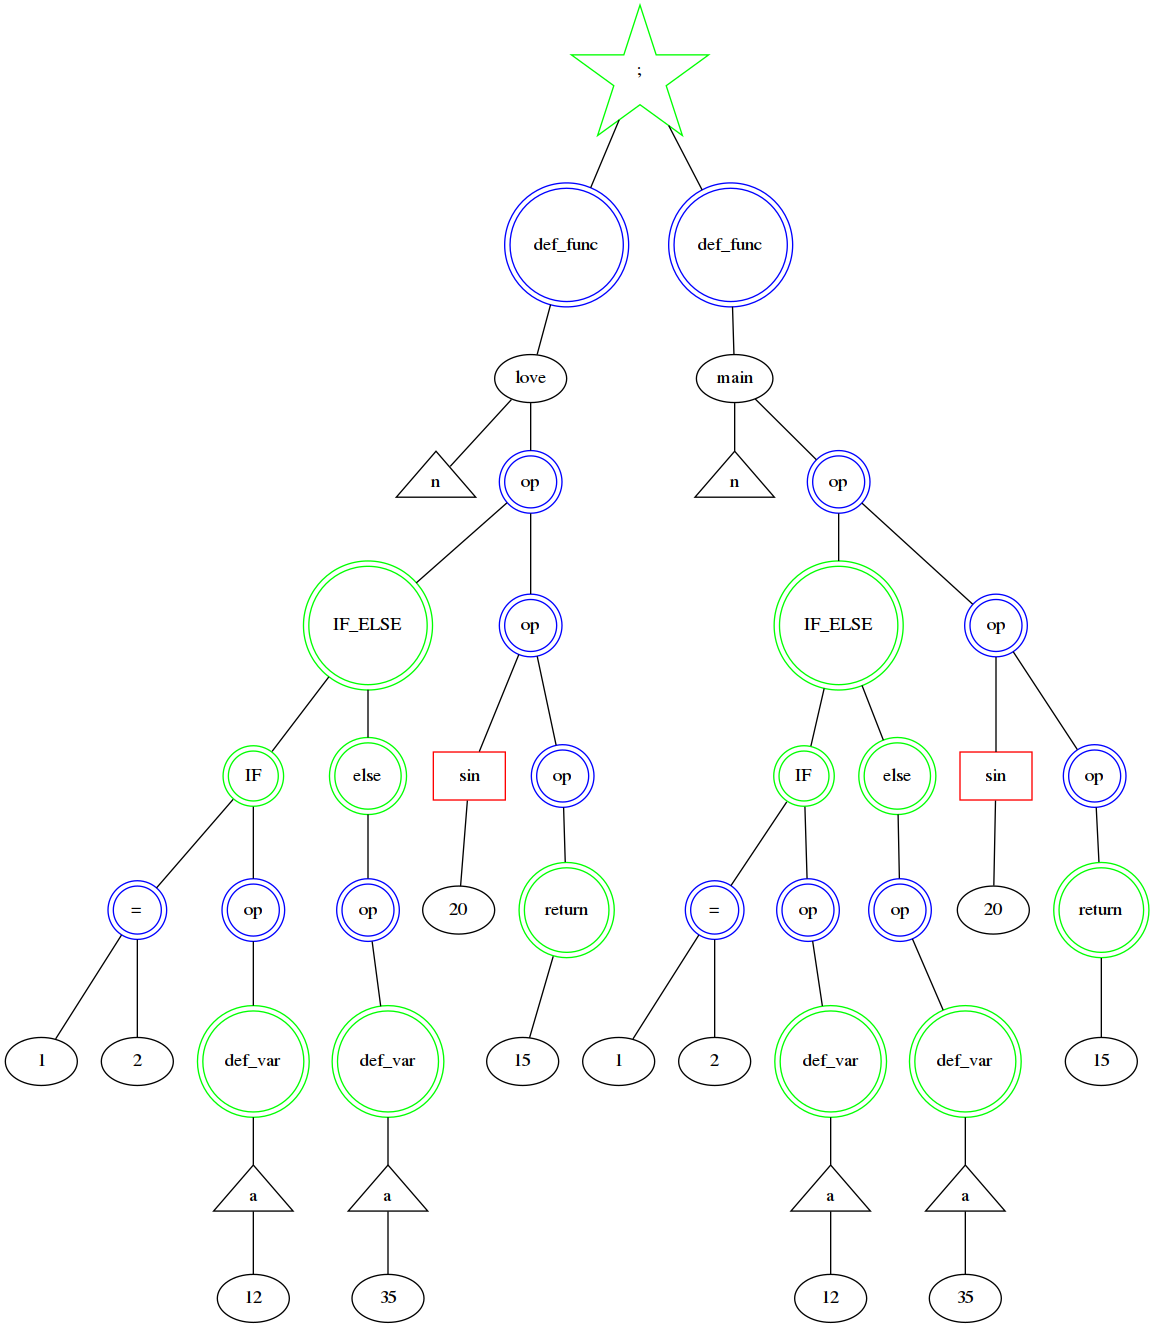
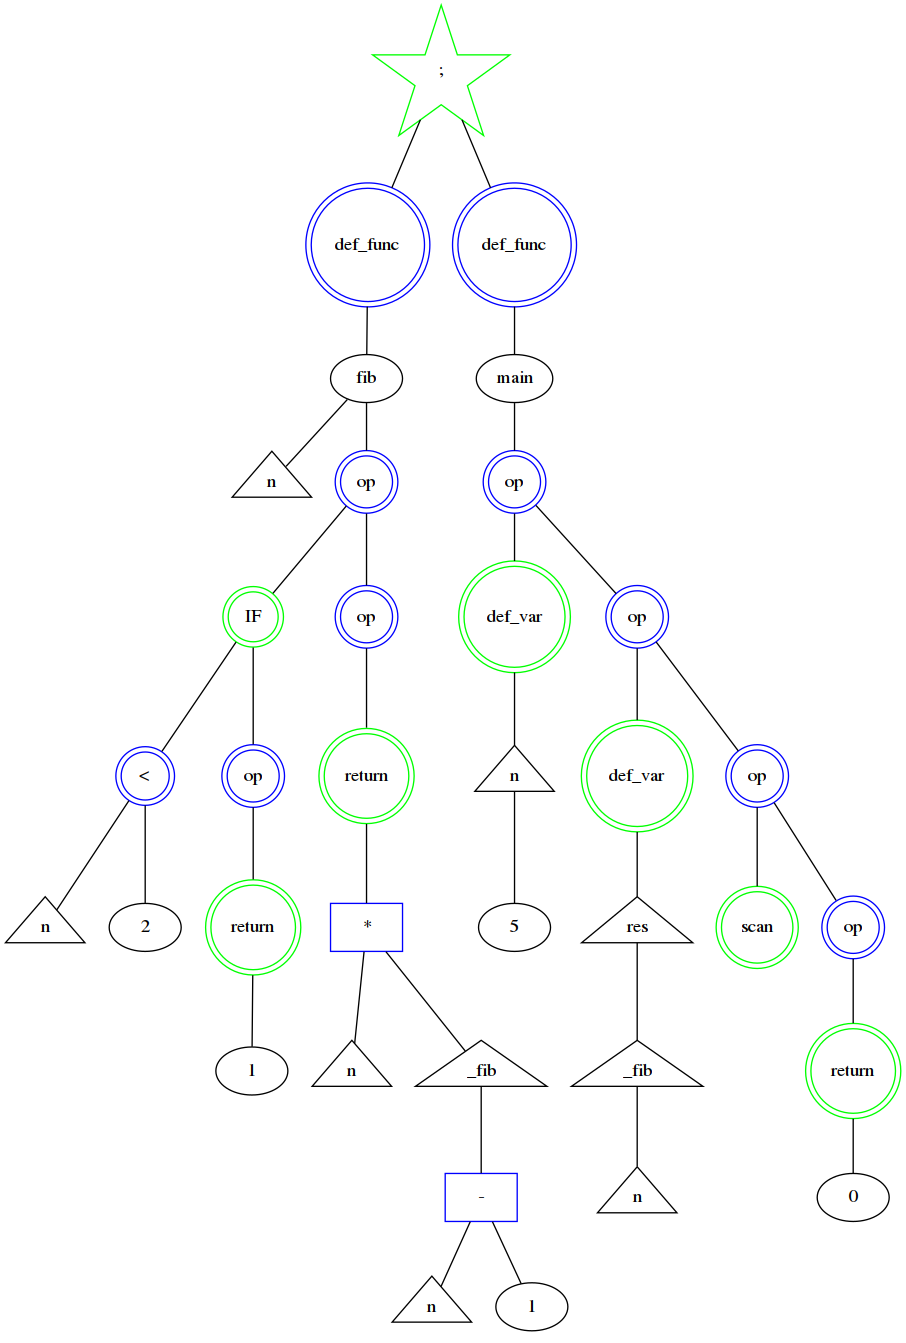
Added all syntaxis and fixed dump

diff --git a/dumps/dumps.cpp b/dumps/dumps.cpp
@@ -42,7 +42,7 @@ void gravizDeepWriting(std::ofstream& myfile, Node* tree, int *index) {
                 myfile << "_" << tree->index << "V" << " -- ";
                 writeChild(myfile, tree->rightChild);
             }
-            return;
+            break;
         case CLASS_MATH_FUNC:
             myfile << "_" << tree->index << "MF" << tree->data->value << "[shape=box, color=red,label=\"" << getStringMathOpAndFunc(tree->data->value) << "\"]\n";
             myfile << "_" << tree->index << "MF" << tree->data->value << " -- ";
@@ -121,6 +121,17 @@ void gravizDeepWriting(std::ofstream& myfile, Node* tree, int *index) {
                 writeChild(myfile, tree->rightChild);
             }
             break;
+        case CLASS_CALL_FUNC:
+            myfile << "_" << tree->index << "CF" << " [shape=triangle,label=\"" << tree->data->name << "\"]\n";
+            if(tree->leftChild) {
+                myfile << "_" << tree->index << "CF" << " -- ";
+                writeChild(myfile, tree->leftChild);
+            }
+            if(tree->rightChild) {
+                myfile << "_" << tree->index << "CF" << " -- ";
+                writeChild(myfile, tree->rightChild);
+            }
+            break;
         default:
             printf("Error in dump - undefined op class!(1)%d\n", tree->data->type);
             exit(EXIT_FAILURE);
@@ -170,6 +181,10 @@ void writeChild(std::ofstream &myfile, Node *tree) {
             break;
         case CLASS_BOOL_SIGN:
             myfile << "_" << tree->index << "BOP" << ";\n";
+            break;
+        case CLASS_CALL_FUNC:
+            myfile << "_" << tree->index << "CF" << ";\n";
+            myfile << "_" << tree->index << "CF" << " [shape=triangle,label=\"" << tree->data->name << "\"]\n";
             break;
         default:
             myfile << "_" << tree->index << "_" << tree->data->type << ";\n";

diff --git a/frontend/frontend.cpp b/frontend/frontend.cpp
@@ -4,6 +4,8 @@
 
 int countFuncDef = 0;
 
+Node *getF(std::vector<Token *>::iterator *iter);
+
 Node* buildTree(std::vector<Token*>* tokens) {
     auto iter = tokens->begin();
     Node* tree = getG(&iter);
@@ -314,7 +316,7 @@ Node* getE(std::vector<Token*>::iterator* iter) {
     }
 }
 
-Node *createDefineVarNode(Token *varToken, Node *rval) {
+Node* createDefineVarNode(Token *varToken, Node *rval) {
     //Node for def_var
     Data* data = new Data();
     data->type = CLASS_SYSTEM_OP;
@@ -412,10 +414,33 @@ Node* getP(std::vector<Token*>::iterator* iter) {
         }
     } else if(dynamic_cast<Num*>(**iter) != nullptr) {
         return getN(iter);
-    } else {
+    } else if(dynamic_cast<CallFunc*>(**iter) != nullptr) {
+        return getF(iter);
+    }else {
         return getId(iter);
     }
     return nullptr;
+}
+
+Node* getF(std::vector<Token*>::iterator* iter) {
+    Node* nodeCallF = new Node();
+    nodeCallF->index = (**iter)->getNumber();
+    Data* callData = new Data();
+    callData->type = CLASS_CALL_FUNC;
+    callData->name = dynamic_cast<CallFunc*>(**iter)->getCh();
+    nodeCallF->data = callData;
+    (*iter)++;//miss call name
+    if(!requirePair(iter)) {
+        printf("callExpr - requires open \"(\" \n");
+        return nullptr;
+    }
+    Node* nodeCallBody = getE(iter);
+    if(!requirePair(iter)) {
+        printf("callExpr - requires close \")\" \n");
+        return nullptr;
+    }
+    nodeCallF->leftChild = nodeCallBody;
+    return nodeCallF;
 }
 
 Node* getId(std::vector<Token*>::iterator* iter) {

diff --git a/frontend/lexer.cpp b/frontend/lexer.cpp
@@ -69,7 +69,14 @@ std::vector<Token*> doLexer(char* expr) {
     while( token != nullptr ) {
         printf( " %s\n", token );
         for (; token != nullptr && ((strncmp(token,"",1) != 0) && (strncmp(token,"\n",1) != 0)); ) {
-            if (strncmp(token, "(", 1) == 0) {
+            if (strncmp(token, "_", 1) == 0) {
+                auto elem = new CallFunc(token);
+                elem->setNumber(countOP);
+                tokens.push_back(elem);
+                countOP++;
+                if (strlen(token) > 1) token += strlen(token);
+                else break;
+            } else if (strncmp(token, "(", 1) == 0) {
                 auto elem = new Pair(OPEN);
                 elem->setNumber(countOP);
                 tokens.push_back(elem);
@@ -241,6 +248,8 @@ std::vector<Token*> doLexer(char* expr) {
             }
         } else if (dynamic_cast<Var*>(*it) != nullptr) {
             std::cout << "Var(" << dynamic_cast<Var*>(*it)->getCh() << ")\n";
+        } else if (dynamic_cast<CallFunc*>(*it) != nullptr) {
+            std::cout << "CallFunc(" << dynamic_cast<CallFunc*>(*it)->getCh() << ")\n";
         } else if (dynamic_cast<MathFunc*>(*it) != nullptr) {
             if(dynamic_cast<MathFunc*>(*it)->getTypeOP() == COS)
                 std::cout << "cos\n";

diff --git a/frontend/lexer.h b/frontend/lexer.h
@@ -84,6 +84,13 @@ public:
     char* getCh() const { return ch;}
 };
 
+class CallFunc: public Token {
+    char* ch;
+public:
+    explicit CallFunc(char* _ch): Token(0, CLASS_CALL_FUNC), ch(_ch){}
+    char* getCh() const { return ch;}
+};
+
 class BoolSign: public Token {
 public:
     explicit BoolSign(int _type): Token(2, _type){}

diff --git a/frontend/language.h b/frontend/language.h
@@ -37,6 +37,7 @@ enum TYPE {
     CLASS_END = 228,
     CLASS_POINT = 229,
     CLASS_ASSIGN = 300,
+    CLASS_CALL_FUNC = 301,
     CLASS_OP = 333
 };
 

diff --git a/README.md b/README.md
@@ -20,26 +20,26 @@ Developed as part of a learning task for ISP RAS.
 |`secrets();`| `sin`      |
 |`lovesong();`| `log`      |
 |`forest a = 10;`| int a = 10;     |
+|`_aaa()`| call expr of func aaa     |
+
 Now, you can use free variable only in () block or after +/-/*/^/div 
 
 ```bash
-the_cure love ( n ) {
-    forest a = 10;
+the_cure  fib ( n ) {
+    a_strange_day  ( n < 2 ) {
+        last_dance 1 ;
+    } ;
+    last_dance (n * _fib ( n - 1 ) );
  } ;
 
- the_cure M (  ) {
-     forest b = 12;
-  } ;
+  the_cure  M ( ) {
+    forest n = 5;
+    forest res = _fib ( n ) ;
+    to_the_sky( res ) ;
+    last_dance (0) ;
+ } ;
 
-   the_cure flex (  ) {
-       forest b = 12;
-    } ;
-
-
-   the_cure M ( c ) {
-       forest l = 23;
-    } ;
-    $
+ $
 ```
 ![Screenshot](gr1.png)
 ##Grammar
